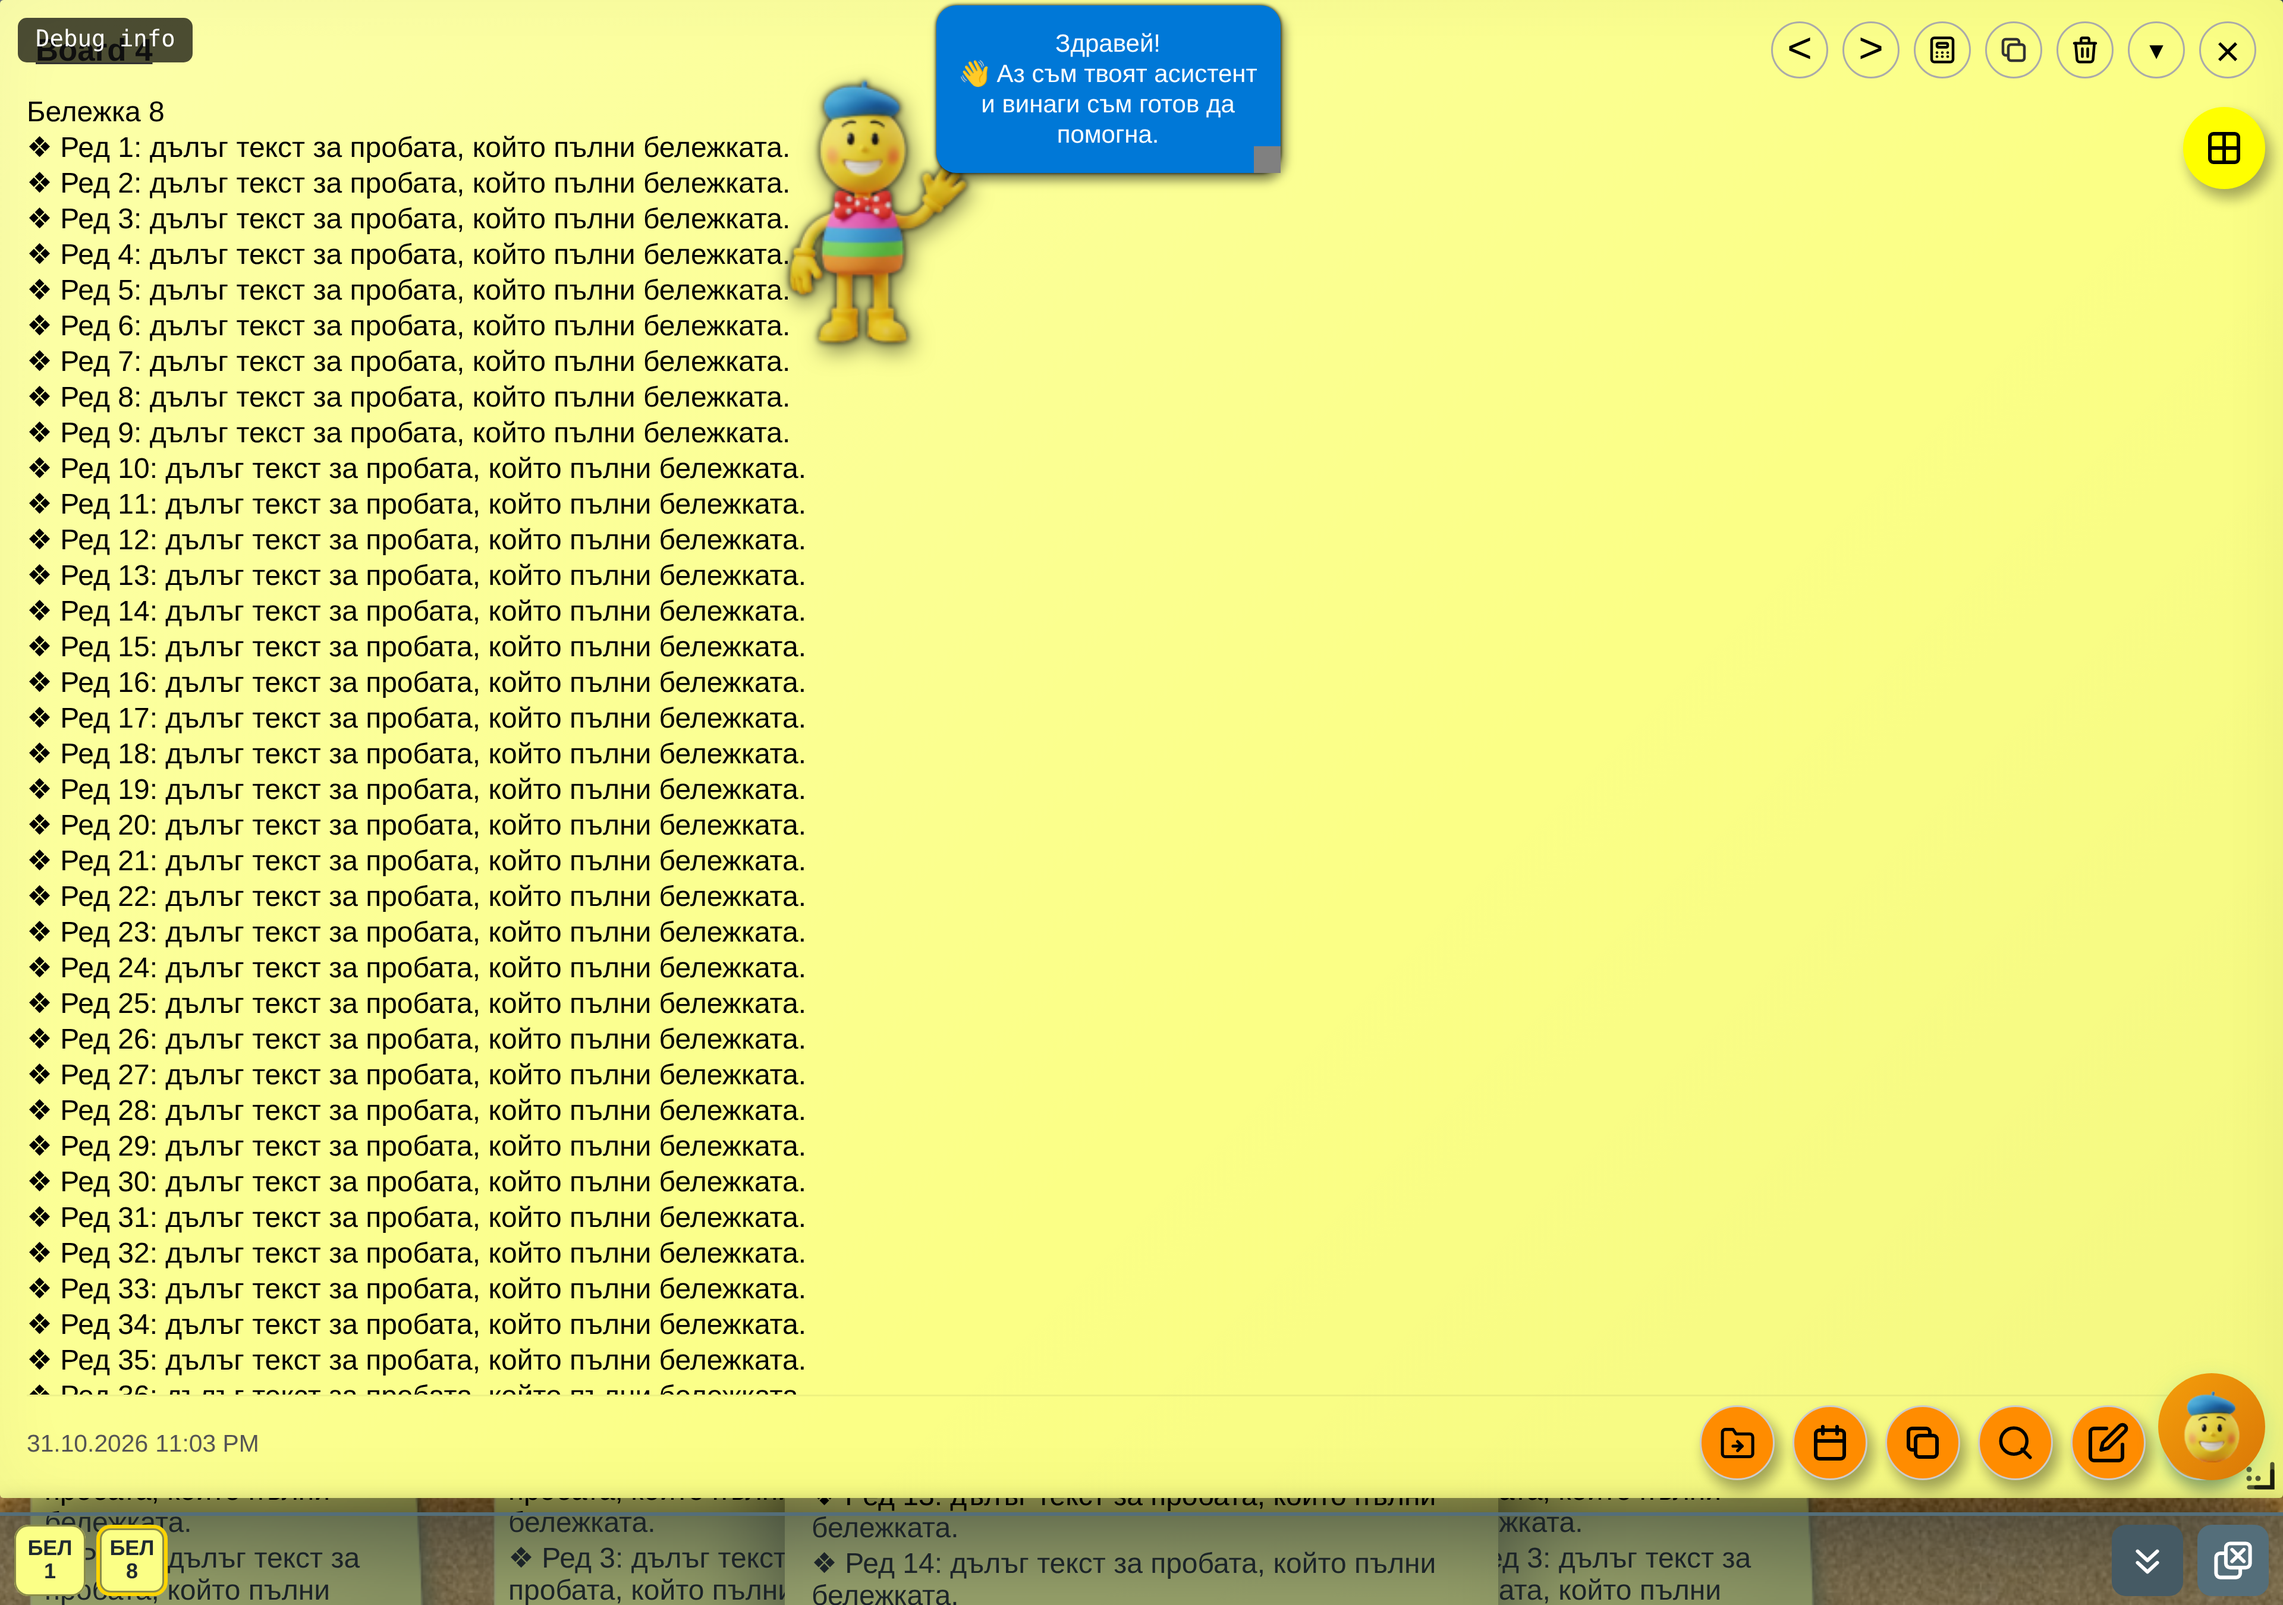
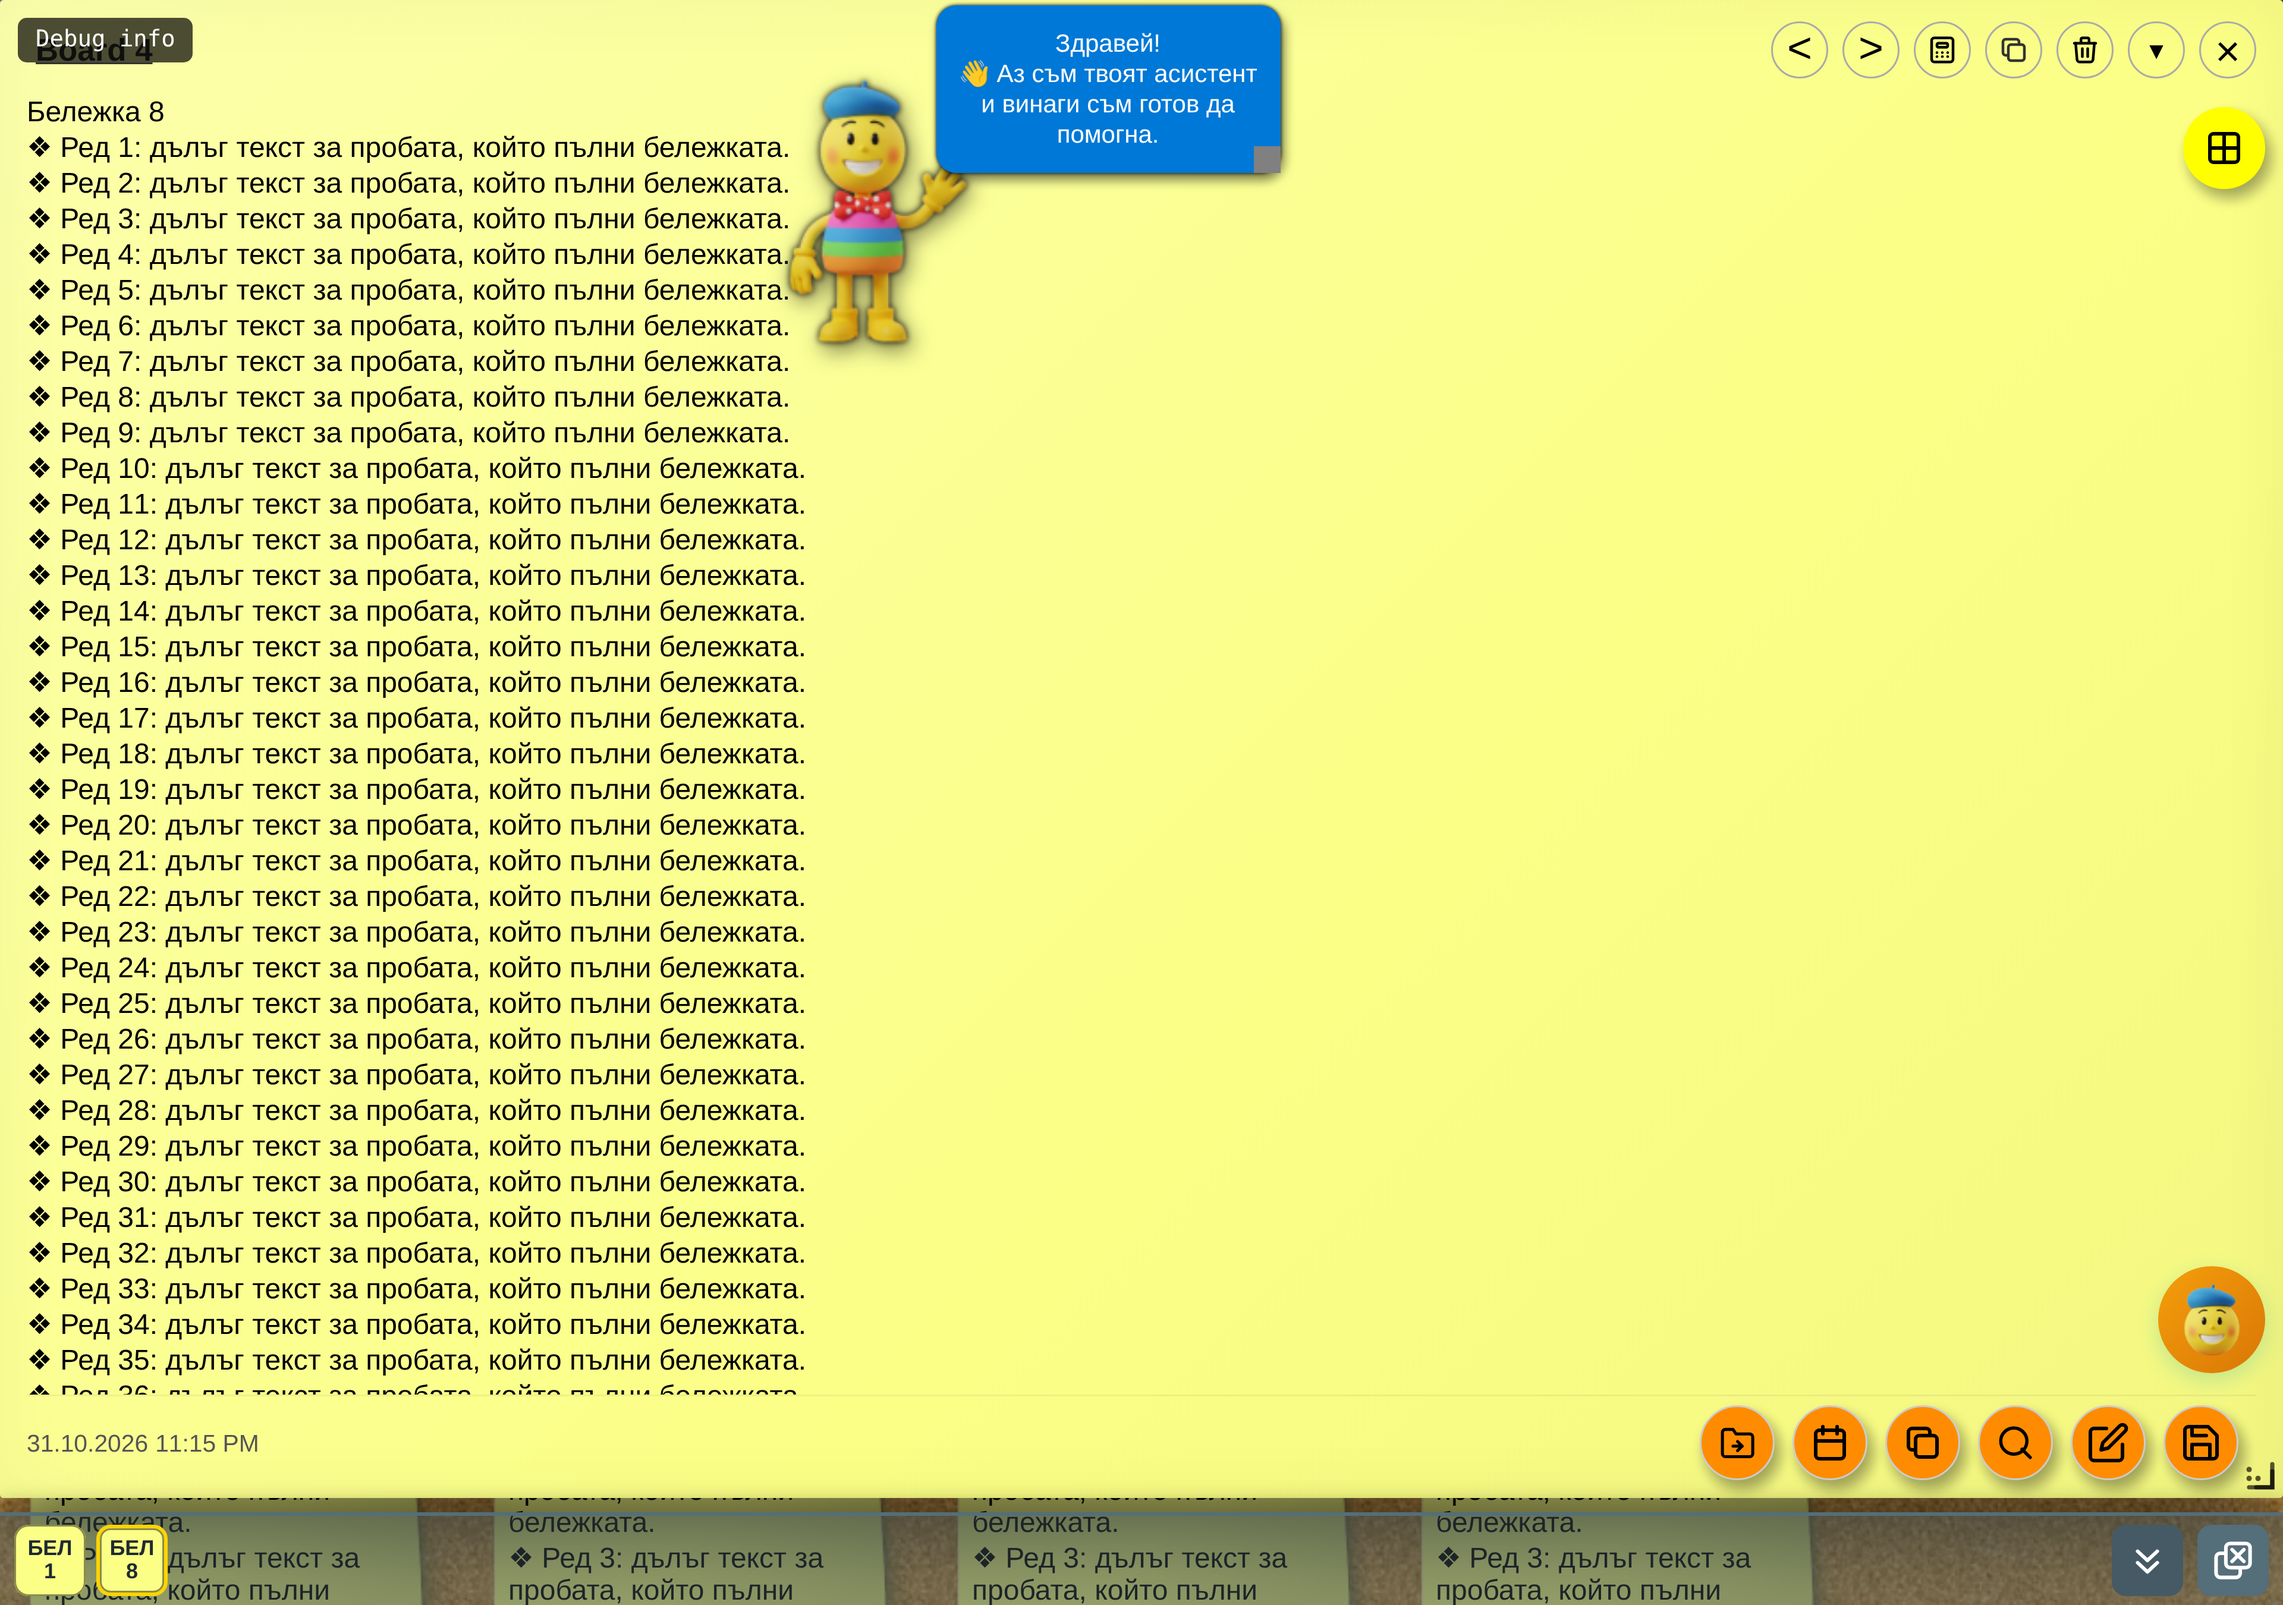
Разпънатата бележка спира до лентата, другата бележка не стърчи под нея (b3.40)
Собственик (31.10.2026): „когато има лента, бележката да се разпъва до нея и бутоните й да не се
местят - това са излишни гимнастики, както е в MNV“.

Връщам b3.38: никакво разпъване до долния ръб и никакъв долен отстъп на вътрешността. Кутията
пак се скъсява с височината на лентата (100% - --open-notes-bar-h - 8px), точно както е в MNV,
значи хартията свършва 8px над лентата, а редът с кръглите бутони и редът с датата остават
видими на мястото си.

Остава истинската причина за доклада „текста на долната се появява под лентата“: правилото
хващаше ВСИЧКИ прозорци, значи при две отворени бележки втората ставаше 784 висока (100% от
целия екран), излизаше под екрана и текстът ѝ се виждаше под полупрозрачната лента. Сега
правилото важи само за прозореца, който наистина е разпънат
(:has(> .nw-modal-body[data-is-expanded="true"])).

CACHE_NAME cx-notes-b3.40.

Тест .bolter/check/expanded-note-covers-bar.mjs: 40/40 - хартията свършва 8px над лентата,
бутоните са над лентата, под лентата няма нищо от друга бележка, другата бележка пази
размера си, без лента разпънатата бележка ползва целия екран.

Changed region(s): [[0.3125, 0.9333, 0.6875, 1.0], [0.9375, 0.7778, 1.0, 0.9333]]

diff --git a/uni/style.css b/uni/style.css
@@ -73,25 +73,23 @@ body.open-notes-bar-visible #kb-fab {
 body.open-notes-bar-visible #add-note-fab {
     bottom: calc(10px + var(--open-notes-bar-h) + 8px);
 }
-/* Разпънатата бележка (b2.75; преправено в b3.38). Собственикът (24.10.2026): „extended mode на
+/* Разпънатата бележка (b2.75; поправено в b3.40). Собственикът (24.10.2026): „extended mode на
    бележката трябва да се съобразява с наличието на лента, защото бутоните на бележката се скриват
    зад нея (когато я има)“.
-   Дотук кутията се СКЪСЯВАШЕ с височината на лентата (100% - лента - 8px). Значи хартията свършваше
-   8px над лентата, а под нея (и под самата лента, която е полупрозрачна) се виждаше каквото е отдолу:
-   бордът с плочките и всяка друга отворена бележка. Оттам дойде докладът на собственика (31.10.2026):
-   „максимизирам горната бележка, текста на долната се появява под лентата“.
-   Сега хартията стига до долния ръб (height: 100%, както е инлайн стилът от applyExpandedModalSize), а
-   ВЪТРЕШНОСТТА спира над лентата с долен отстъп - редът с кръглите бутони и редът с датата под него
-   остават видими, както иска собственикът. !important е нужен само за височината, защото инлайн стилът
-   носи height: 100% - но и двете стойности са едни и същи, значи спорът е решен тук, на едно място.
-   Правилото важи САМО докато лентата е на екрана (body.open-notes-bar-visible) - щом изчезне,
-   отстъпът става 0 и бележката ползва целия екран.
-   И САМО за прозореца, който наистина е разпънат (:has() по data-is-expanded на тялото му). Досега
-   правилото хващаше всички отворени бележки: при две отворени и една разпъната втората ставаше 784
-   висока (100% от целия екран) и излизаше под екрана, точно под лентата. */
+   Затова кутията се скъсява с височината на лентата (100% - лента - 8px): хартията свършва 8px над
+   лентата, а редът с кръглите бутони и редът с датата под него остават видими. Точно както е в MNV.
+   Собственикът (31.10.2026): „когато има лента, бележката да се разпъва до нея и бутоните й да не се
+   местят - това са излишни гимнастики“ (пробвах да разпъвам хартията до долния ръб и да вдигам
+   вътрешността с долен отстъп - върнато).
+   !important е нужен, защото инлайн стилът от applyExpandedModalSize носи height: 100%.
+   Правилото важи САМО докато лентата е на екрана (body.open-notes-bar-visible): щом я няма, бележката
+   ползва целия екран.
+   И САМО за прозореца, който наистина е разпънат (:has() по data-is-expanded на тялото му). Без това
+   ограничение правилото хващаше всички отворени бележки: при две отворени и една разпъната втората
+   ставаше 784 висока (100% от целия екран), излизаше под екрана и текстът ѝ се показваше под
+   полупрозрачната лента. Точно това видя собственикът: „текста на долната се появява под лентата“. */
 body.open-notes-bar-visible.modal-note-expanded .note-window .modal-content-box:has(> .nw-modal-body[data-is-expanded="true"]) {
-    height: 100% !important;
-    padding-bottom: calc(var(--open-notes-bar-h) + 8px);
+    height: calc(100% - var(--open-notes-bar-h) - 8px) !important;
 }
 
 /* Скритите бележки не са на екрана: бутонът за нова бележка остава достъпен. */

diff --git a/uni/sw.js b/uni/sw.js
@@ -1,4 +1,4 @@
-const CACHE_NAME = 'cx-notes-b3.39';
+const CACHE_NAME = 'cx-notes-b3.40';
 const OFFLINE_PAGE = 'index.html';
 // Демо режимът (index.html?demo=1) не минава през кеша: данните му живеят само в IndexedDB
 // (NotesDB-demo) и нищо не се записва тук. Fetch handler-ът пропуска cross-origin заявки,
